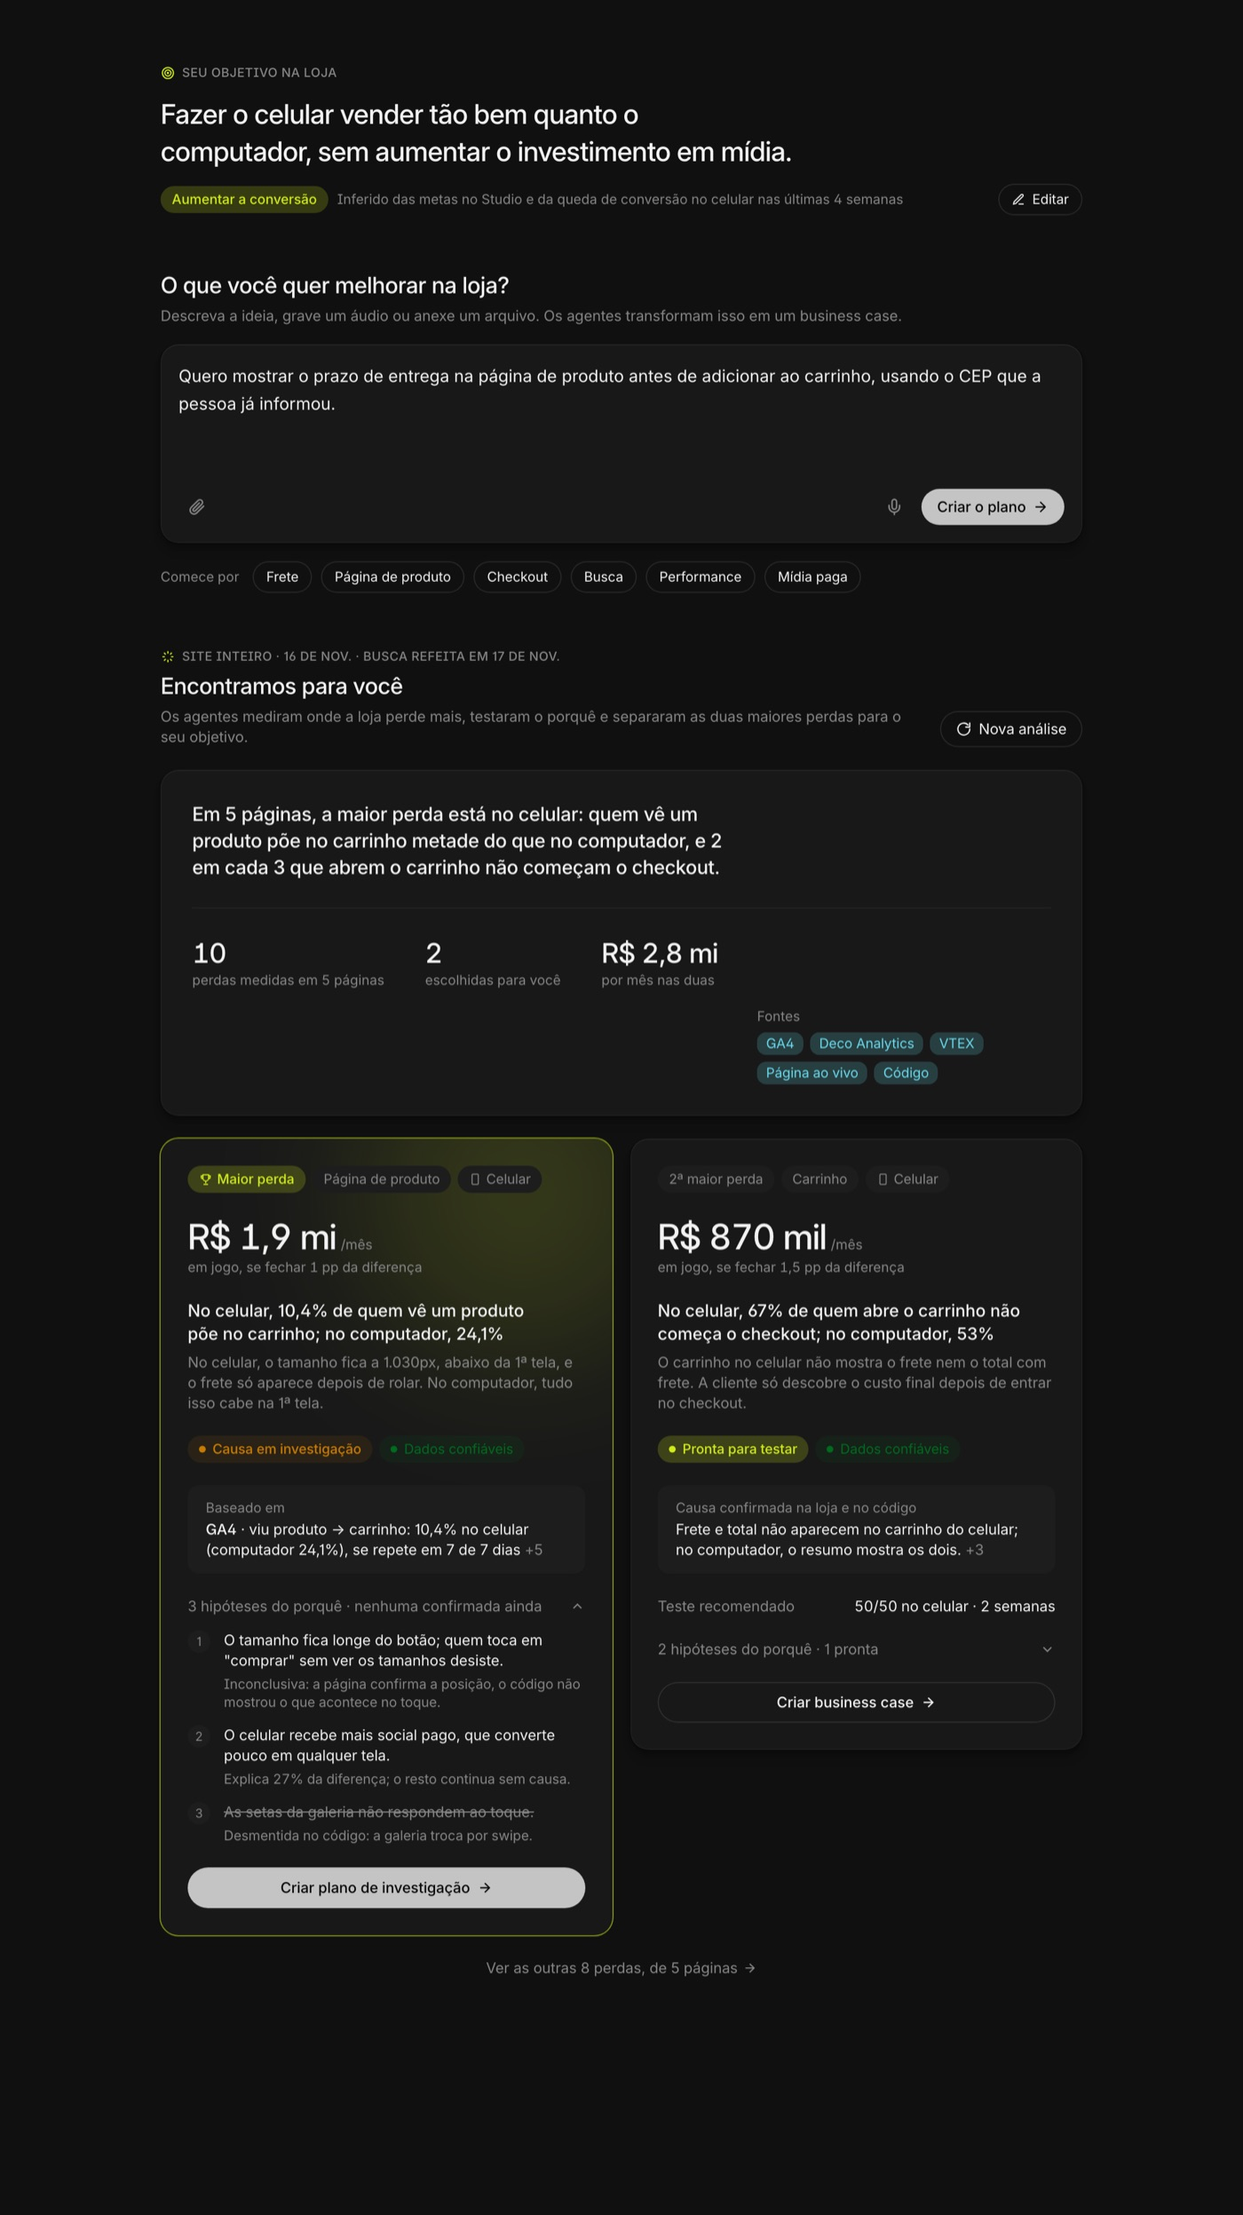
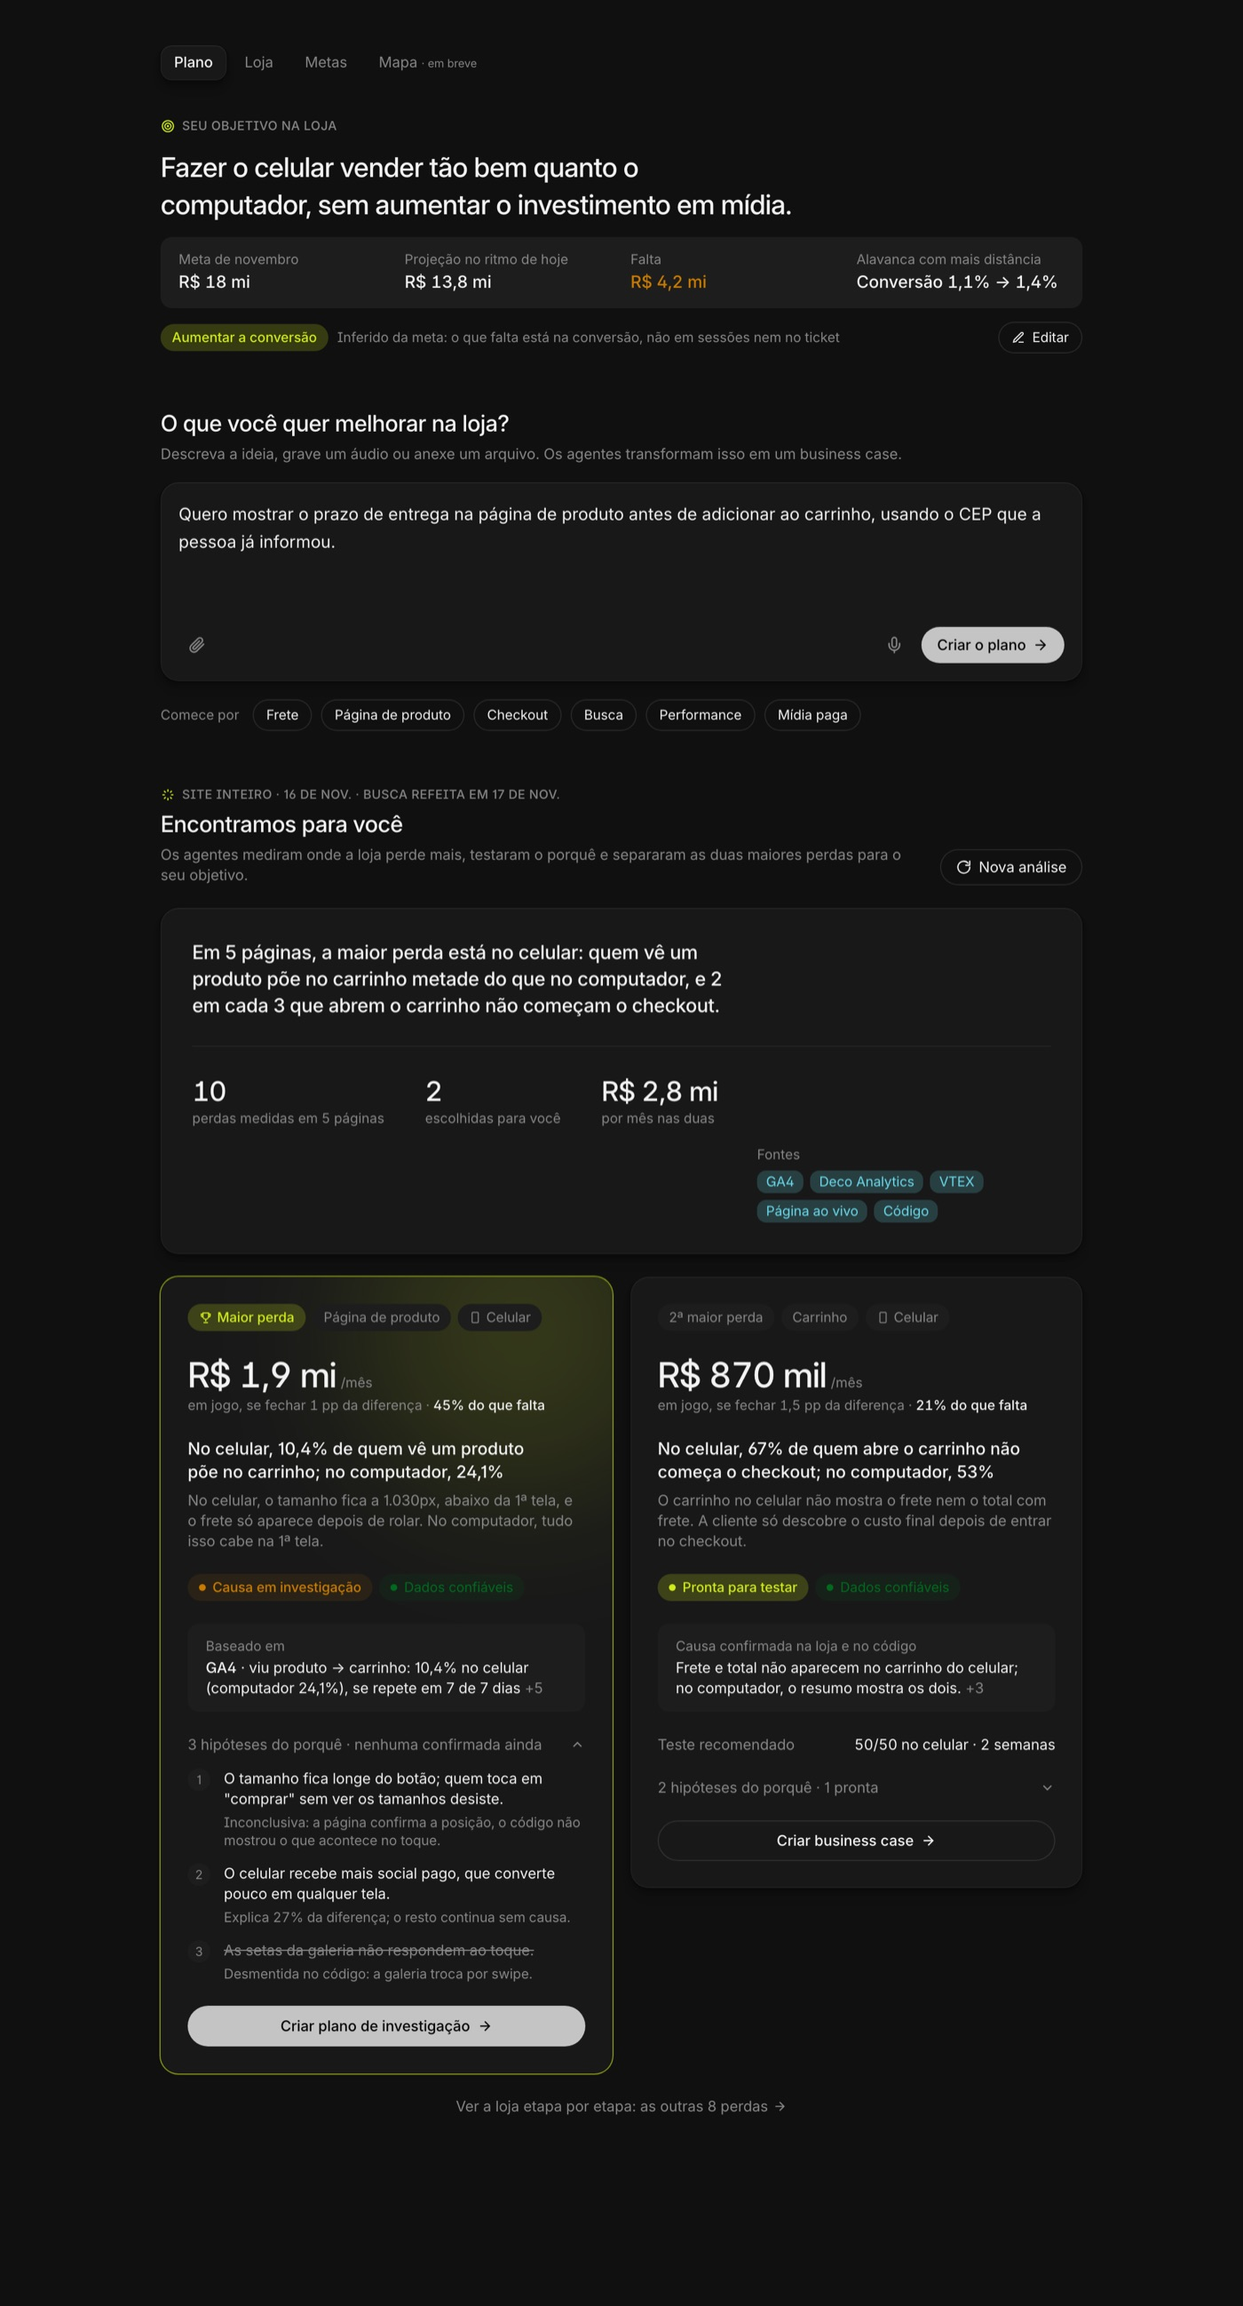
docs(plans): add goals, store view, and multi-page runs to the Plan design
Bring in the ideas from the other Plan prototype that fit this design:
numeric goals that suggest the objective type and size each loss against
the monthly gap, a store tab that walks the funnel with the live page
framed like the heatmap, multi-page manual runs, and a future map tab
for areas the engine does not cover. Add a section on how the two
proposals relate and where they differ.

diff --git a/docs/plans/plan-page.md b/docs/plans/plan-page.md
@@ -66,13 +66,24 @@ mantém o desenho dos mockups e acrescenta o que o motor novo exige: o
 | --- | --- |
 | ![Protótipo claro](plan/proto-light.jpg) | ![Protótipo escuro](plan/proto-dark.jpg) |
 
-A página tem, de cima para baixo:
+A página tem quatro abas, na barra do painel, como no Monitor:
+
+| Aba | O que mostra | Fase |
+| --- | --- | --- |
+| **Plano** (padrão) | Objetivo, ideia e as duas maiores perdas | F1–F3 |
+| **Loja** | O funil da loja etapa por etapa, com a página ao vivo (ver "Visão da loja") | F3 |
+| **Metas** | Faturamento, meta por mês e as alavancas (ver 4.1) | F2 |
+| **Mapa** | Áreas além da conversão: Inbound, saúde técnica (ver seção 11) | F4, "em breve" até lá |
+
+A aba Plano tem, de cima para baixo:
 
 1. **Objetivo na loja**, no topo. Uma frase que resume o que a pessoa quer da
    loja agora ("Fazer o celular vender tão bem quanto o computador, sem
-   aumentar o investimento em mídia"), o tipo de objetivo que ela move
-   ("Aumentar a conversão"), de onde a frase veio e "Editar". Tudo abaixo é
-   lido à luz dessa frase.
+   aumentar o investimento em mídia"). Logo abaixo, a **meta em números**: a
+   meta do mês, a projeção no ritmo de hoje, quanto falta e a alavanca com mais
+   distância ("Conversão 1,1% → 1,4%"). Depois, o tipo de objetivo
+   ("Aumentar a conversão"), de onde ele veio e "Editar". Tudo abaixo é lido à
+   luz dessa frase e dessa meta.
 2. **Composer da ideia.** "O que você quer melhorar na loja?", com anexo, áudio
    e o botão "Criar o plano". Os chips "Comece por" preenchem um ponto de
    partida.
@@ -84,7 +95,8 @@ A página tem, de cima para baixo:
 5. **Dois cards**, as duas maiores perdas do site inteiro que não sejam o mesmo
    problema:
    - selo ("Maior perda" / "2ª maior perda"), página e dispositivo;
-   - R$/mês em jogo e a premissa da conta ("se fechar 1 pp da diferença");
+   - R$/mês em jogo, a premissa da conta ("se fechar 1 pp da diferença") e
+     **quanto isso fecha do que falta para a meta** ("45% do que falta");
    - título: a perda medida, escrita pelo código;
    - o que foi visto na página;
    - **estado**: "Causa em investigação" ou "Pronta para testar", mais a
@@ -94,7 +106,7 @@ A página tem, de cima para baixo:
      desmentidas, riscadas;
    - teste recomendado, quando há hipótese pronta;
    - CTA: **"Criar plano de investigação"** ou **"Criar business case"**.
-6. **"Ver as outras N perdas"**, a lista do site inteiro.
+6. **"Ver a loja etapa por etapa"**, que abre a aba Loja.
 
 **Por que o estado é obrigatório.** Na última rodada real do motor (5 páginas,
 10 oportunidades, 25 hipóteses), só **1** hipótese chegou a "pronta para
@@ -109,7 +121,8 @@ pé está cada uma.
 ![Editar objetivo](plan/proto-objective.jpg)
 
 A pessoa reescreve a frase do jeito que diria ao time e confere o tipo de
-objetivo que ela move. O tipo decide quais páginas e etapas entram na rodada
+objetivo que ela move. Os números (meta por mês, sessões, conversão e ticket)
+ficam na aba Metas. O tipo decide quais páginas e etapas entram na rodada
 (ver 4.1); tipos sem cobertura aparecem como "em breve". "Salvar e analisar de
 novo" dispara uma rodada do site inteiro com o objetivo novo; "Só salvar" vale
 a partir da próxima rodada.
@@ -122,14 +135,40 @@ Além da rodada semanal, a pessoa pode pedir uma análise a qualquer momento:
 
 - **Site inteiro:** todas as páginas que o objetivo cobre, ao mesmo tempo (até
   uns 45 minutos, cerca de US$ 8).
-- **Só uma parte:** home, categoria, busca, página de produto ou carrinho e
-  checkout (até uns 15 minutos, cerca de US$ 2). Serve para refazer uma página
-  depois de uma mudança no site ou de instrumentar um evento.
+- **Só as partes escolhidas:** uma ou mais entre home, categoria, busca,
+  página de produto e carrinho e checkout. As partes rodam ao mesmo tempo (até
+  uns 15 minutos, cerca de US$ 2 por parte). Serve para refazer páginas depois
+  de uma mudança no site ou de instrumentar um evento.
 
 Cada página mostra quando foi analisada pela última vez. Uma página que já está
 rodando aparece como "rodando agora" e não pode ser pedida de novo. Quando só
 uma parte é refeita, as outras páginas continuam com a última análise e o top 2
-é recalculado sobre o conjunto (ver 4.6).
+é recalculado sobre o conjunto (ver 4.6). A aba Loja também tem "Refazer esta
+página" no card de cada etapa.
+
+#### Visão da loja (aba Loja)
+
+![Visão da loja](plan/proto-store.jpg)
+
+O funil da loja com as mesmas páginas que o motor analisa: home, categoria e
+busca (caminhos alternativos na mesma coluna), produto, carrinho e checkout.
+Cada etapa mostra pessoas por semana, quanto avança para a próxima e a maior
+perda medida nela, com o dispositivo escolhido em cima (celular ou computador).
+
+Clicar numa etapa abre o card dela:
+
+- **a página ao vivo** num iframe, enquadrada como no heatmap (mesmos helpers
+  `siteOrigin` e `frameUrl` de `layouts/main-panel-tabs/analytics-heatmap-model.ts`,
+  mesmo sandbox e o domínio do status do Deco Analytics), com o caminho
+  editável e "abrir em nova aba". A captura do motor permite marcar por cima o
+  fim da 1ª tela e a posição dos elementos citados nas observações;
+- as perdas medidas naquela página, com estado e confiança;
+- o que a análise viu na página;
+- "Refazer esta página" e "Abrir a maior perda".
+
+Esta aba substitui a lista "outras N perdas" e é também o detalhe da perda. A
+ideia, o enquadramento do iframe e o desenho do funil vêm do PR #8439 (ver
+seção 11).
 
 #### Estados
 
@@ -212,9 +251,23 @@ O objetivo tem duas partes:
 - **a frase**, em linguagem da pessoa, que aparece no topo do Plan e entra no
   prompt de cada etapa da análise (por exemplo, "sem aumentar o investimento em
   mídia" faz o agente não recomendar mais mídia paga);
-- **o tipo**, que decide quais páginas e etapas entram na rodada.
+- **o tipo**, que decide quais páginas e etapas entram na rodada;
+- **a meta em números**, na aba Metas: faturamento web dos anos anteriores,
+  realizado e meta deste ano e do próximo, a meta distribuída por mês (com
+  sazonalidade de varejo como ponto de partida e aviso quando os meses não
+  somam a meta do ano) e as alavancas **sessões × conversão × ticket médio**.
 
-Os dois são inferidos do que a org já declarou (metas, contexto do projeto,
+A meta em números faz duas coisas que a frase sozinha não faz:
+
+1. **Sugere o tipo.** Comparando as alavancas de hoje com as necessárias para a
+   meta, o Plan vê onde está a maior distância. Se o que falta é conversão, o
+   tipo sugerido é "Aumentar a conversão"; se é sessões, "Trazer mais sessões".
+2. **Dá escala às perdas.** Cada perda passa a dizer quanto fecha do que falta
+   para a meta do mês ("45% do que falta"), e não só um R$ solto.
+
+A frase, o tipo e a meta são inferidos
+
+do que a org já declarou (metas, contexto do projeto,
 conversas) e dos dados (por exemplo, queda de conversão em 4 semanas). O Studio
 guarda a frase, o tipo, a evidência e se foi **inferido**, **confirmado** ou
 **editado** pela pessoa. Uma edição da pessoa nunca é sobrescrita pela
@@ -446,7 +499,8 @@ O motor recebeu 41 mudanças em 5 dias. Para o port não virar uma corrida:
 | Tabela | Campos principais |
 | --- | --- |
 | `plan_objectives` | `organization_id` (único), `statement` (a frase, até 280 caracteres), `objective` (`conversion` \| `ticket` \| `sessions` \| `efficiency`), `source` (`inferred` \| `confirmed` \| `edited`), `evidence` (jsonb), `out_of_scope_stages` (text[]), `updated_by`, `updated_at` |
-| `plan_site_runs` | `id`, `organization_id`, `scope` (`site` ou um `page_type`), `objective_statement` e `objective` (cópia do objetivo usado), `trigger` (`schedule` \| `objective_changed` \| `manual`), `requested_by`, `status`, `cost_usd`, `started_at`, `finished_at` |
+| `plan_goals` | `organization_id`, `year`, `month` (nulo = ano), `revenue_actual`, `revenue_target`, `levers` (jsonb: sessões, conversão, ticket), `updated_by`, `updated_at`. Valores em moeda da org; o realizado vem do lake quando houver |
+| `plan_site_runs` | `id`, `organization_id`, `scope` (`site` ou a lista de `page_type` escolhidos), `objective_statement` e `objective` (cópia do objetivo usado), `trigger` (`schedule` \| `objective_changed` \| `manual`), `requested_by`, `status`, `cost_usd`, `started_at`, `finished_at` |
 | `plan_diagnoses` | `id`, `site_run_id`, `organization_id`, `page_type`, `page_route`, `status`, `stage`, `progress_note`, `headline`, `limits` (jsonb), `gaps` (jsonb), `evidence` (jsonb), `cost_usd`, `error` |
 | `plan_opportunities` | `id`, `diagnosis_id`, `rank`, `area`, `device`, `title`, `summary`, `observations` (jsonb), `metric` (jsonb), `measured` (jsonb), `reliability` (jsonb), `drilldown` (jsonb), `money` (jsonb), `confidence`, `outcome` (jsonb), `tree_notes` (jsonb), `is_reserve`, `retired_at` |
 | `plan_hypotheses` | `id`, `opportunity_id`, `rank`, `category`, `tree` (jsonb), `lifecycle`, `lifecycle_log` (jsonb), `validation` (jsonb), `verification` (jsonb), `relevance` (jsonb), `experiment` (jsonb), `priority` (jsonb), `review` (jsonb), `status` (`pending` \| `approved` \| `dismissed`), `solution_key` |
@@ -471,9 +525,10 @@ Seguem `apps/api/AGENTS.md`:
 | Tool | Faz |
 | --- | --- |
 | `PLAN_OBJECTIVE_GET` / `PLAN_OBJECTIVE_SET` | Lê ou define a frase, o tipo de objetivo e as etapas fora de escopo |
-| `PLAN_RUN_START` | `{ scope: "site" \| page_type }`. Começa uma rodada do site inteiro ou de uma página, ou devolve a que já está rodando para aquela página |
+| `PLAN_RUN_START` | `{ scope: "site" } \| { pages: page_type[] }`. Começa uma rodada do site inteiro ou das páginas escolhidas; páginas que já estão rodando são devolvidas como estão |
 | `PLAN_RUN_GET` / `PLAN_RUN_LIST` | Estado e progresso de uma rodada; lista de rodadas |
-| `PLAN_STORE_VIEW_GET` | A visão da loja: última análise concluída de cada página, quando foi feita, top 2 e as outras perdas ordenadas |
+| `PLAN_STORE_VIEW_GET` | A visão da loja: última análise concluída de cada página, quando foi feita, o funil por dispositivo, top 2 e as outras perdas ordenadas |
+| `PLAN_GOALS_GET` / `PLAN_GOALS_SET` | Metas por ano e mês e as alavancas |
 | `PLAN_OPPORTUNITY_GET` | A perda com hipóteses, verificação e dossiês |
 | `PLAN_HYPOTHESIS_VERIFY` | Roda de novo a verificação de uma hipótese |
 | `PLAN_HYPOTHESIS_DECIDE` | Aprova (só se pronta) ou descarta; vira conhecimento da loja |
@@ -507,7 +562,8 @@ O teto (o gap inteiro) só aparece como referência e nunca como promessa.
 ## 7. Web
 
 - `apps/web/src/routes/workspace/plan.tsx` passa a renderizar `PlanPage` dentro
-  de `ChatLayout.Content`. O título vem de `staticData.pageTitle`.
+  de `ChatLayout.Content`. O título vem de `staticData.pageTitle`. As abas
+  ficam em `Panel.Toolbar.Left.Portal`, como no Monitor e no PR #8439.
 - Componentes do Studio: `Page`, `Page.Content`, `Page.Container`, `Badge`
   (`lime` para "Maior perda" e "Pronta para testar", `warning` para "Causa em
   investigação", `success` para "Dados confiáveis"), `Button` e as utilities de
@@ -531,9 +587,9 @@ O teto (o gap inteiro) só aparece como referência e nunca como promessa.
 | Fase | Entrega | Gate |
 | --- | --- | --- |
 | **F1 — Página e business case reativo** | Página com composer e chips; agente/skill de Plan; documento gravado em arquivos; "Mandar para o board". Sem a seção proativa. | Nenhum: substitui o coming soon |
-| **F2 — Objetivo** | `plan_objectives`; frase e tipo inferidos; objetivo no topo da página com "Editar"; etapas fora de escopo | Flag de org `plan_proactive_enabled` (default off) |
-| **F3 — Port do motor** | P1 a P5 da seção 5.5. Ao fim de P1+P2, o Plan já mostra as perdas medidas com "causa em investigação". P3–P5 trazem hipóteses, verificação, estado e os dois CTAs. "Nova análise" (site inteiro ou uma página) e rodada semanal. | `plan_proactive_enabled`; a rodada semanal tem a sua, `plan_weekly_sweep_enabled` |
-| **F4 — Concorrentes, mockups e outros objetivos** | P6; objetivos de sessões e eficiência (SEO, mídia paga) | Por objetivo |
+| **F2 — Objetivo e metas** | `plan_objectives` e `plan_goals`; frase, tipo e meta inferidos; objetivo no topo da página com "Editar"; aba Metas; etapas fora de escopo | Flag de org `plan_proactive_enabled` (default off) |
+| **F3 — Port do motor** | P1 a P5 da seção 5.5. Ao fim de P1+P2, o Plan já mostra as perdas medidas com "causa em investigação". P3–P5 trazem hipóteses, verificação, estado e os dois CTAs. Aba Loja com o funil e a página ao vivo. "Nova análise" (site inteiro ou as partes escolhidas) e rodada semanal. | `plan_proactive_enabled`; a rodada semanal tem a sua, `plan_weekly_sweep_enabled` |
+| **F4 — Concorrentes, mockups e outros objetivos** | P6; aba Mapa com Inbound e saúde técnica; objetivos de sessões e eficiência (SEO, GEO, mídia paga) | Por objetivo |
 | **F5 — Catálogo de soluções** | Hipótese pronta → solução existente, com esforço menor no business case | — |
 
 Pré-requisitos, fora desta página:
@@ -580,6 +636,52 @@ Pré-requisitos, fora desta página:
 | Arquivo | Origem |
 | --- | --- |
 | `mockup-*.jpg` | Mockups de design |
-| `proto-*.jpg` | Protótipo HTML estático com o tema do Studio e dados sintéticos. Não faz parte do produto. |
+| `proto-*.jpg` | Protótipo HTML estático com o tema do Studio e dados sintéticos. Não faz parte do produto. A aba Loja e a aba Metas seguem as ideias do PR #8439. |
 | `current-coming-soon.jpg` | Studio em produção; org, pessoa e outras orgs mascaradas |
 | `pdp-optimizer-*.jpg` | Motor externo em produção, em 17/11/2026; domínio, marca, concorrentes e imagens mascarados |
+
+## 11. Relação com o PR #8439
+
+O PR #8439 propõe outro protótipo para a mesma página, só de front-end e com
+dados mock. Ele tem:
+- um **mapa radial** da loja (Inbound com SEO, GEO e conteúdo; CRO; saúde técnica;
+  áreas "em breve") com checks verde, amarelo e vermelho;
+- o **CRO como funil**, com a página de cada etapa ao vivo num iframe;
+- uma aba **Metas** com faturamento, meta por mês com sazonalidade e simulação
+  de sessões × conversão × ticket;
+- um diálogo **"Iniciar um plano"** com três entradas: ideia, direção (chips de
+  tópico) e análise completa.
+
+### O que este plano incorpora
+
+| Do #8439 | Aqui |
+| --- | --- |
+| Metas em números e as alavancas | Aba Metas (F2). A meta sugere o tipo de objetivo e dá escala às perdas ("45% do que falta") |
+| Funil com caminhos alternativos e a maior perda | Aba Loja (F3), alimentada pelas perdas medidas do motor |
+| Página ao vivo enquadrada como no heatmap | Card da etapa na aba Loja e detalhe da perda |
+| "Tenho uma direção" com vários tópicos | "Nova análise" com várias partes |
+| Mapa com Inbound e saúde técnica | Aba Mapa (F4), para os objetivos que o motor ainda não cobre |
+| Abas no `Panel.Toolbar`, `orgFileUrl` para o logo, `i18n/plan.ts` | Implementação da F1 |
+
+### Onde as ideias divergem
+
+| | #8439 | Este plano |
+| --- | --- | --- |
+| Tela de entrada | Um inventário: o mapa de tudo o que a loja tem | Uma decisão: o objetivo e as duas maiores perdas |
+| Objetivo | Meta de faturamento, separada da análise | Frase, tipo e meta, que dirigem a análise |
+| Oportunidade de CRO | Item de checklist de boa prática ("sem login social"), sem medida de quanto custa | Perda medida em R$, com hipóteses verificadas |
+| Priorização | Nenhuma; a pessoa navega | Valor × confiança, duas em destaque |
+| Saída | "Criar tarefa" ou "Validar novamente" por check | Business case ou plano de investigação |
+| Backend | Mock | Port do motor |
+
+**Checklist só onde aprovado/reprovado é fato.** Em saúde técnica (velocidade,
+acessibilidade, boas práticas) e em boa parte de SEO, um check reprovado é um
+fato verificável, e a checklist do #8439 serve bem na aba Mapa. Em CRO, um
+check de boa prática sem medida é o tipo de recomendação que o cliente derruba
+fácil, então a oportunidade continua sendo a perda medida.
+
+**Conflito de arquivos.** Os dois desenhos criam `components/plan/plan-page.tsx`
+e `i18n/{en,pt-br}/plan.ts` e mudam `routes/workspace/plan.tsx`. Antes de
+começar a F1, os dois lados precisam combinar qual PR vira a base; a sugestão é
+partir do #8439 (abas, funil, card da página, metas) e trocar a tela de entrada
+pela aba Plano desta doc.
